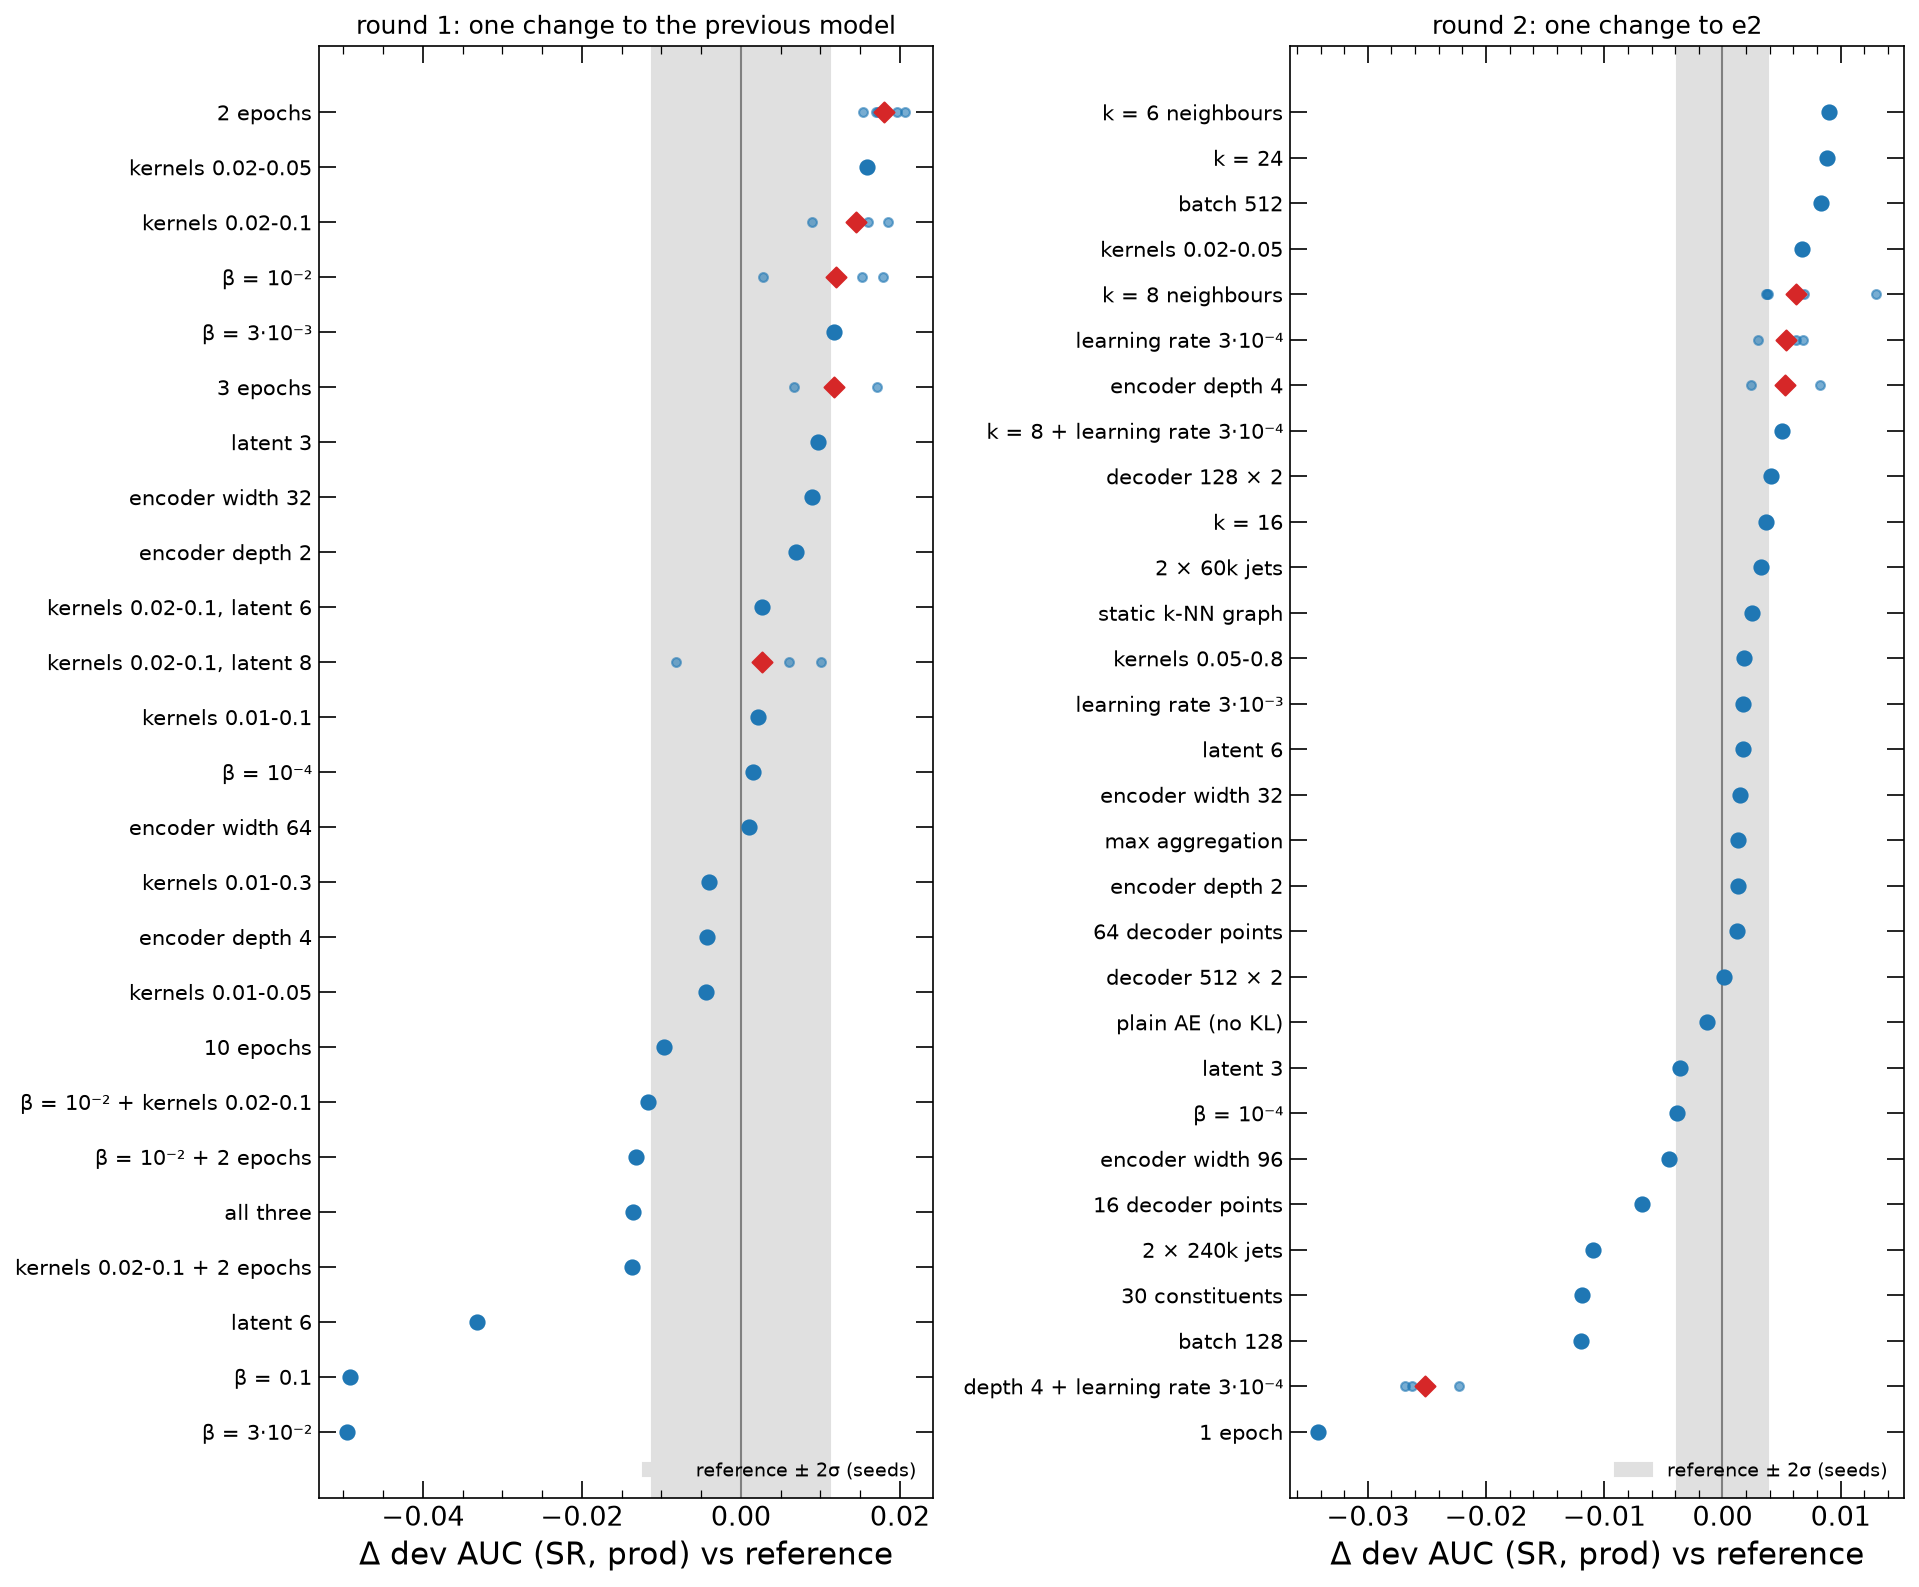
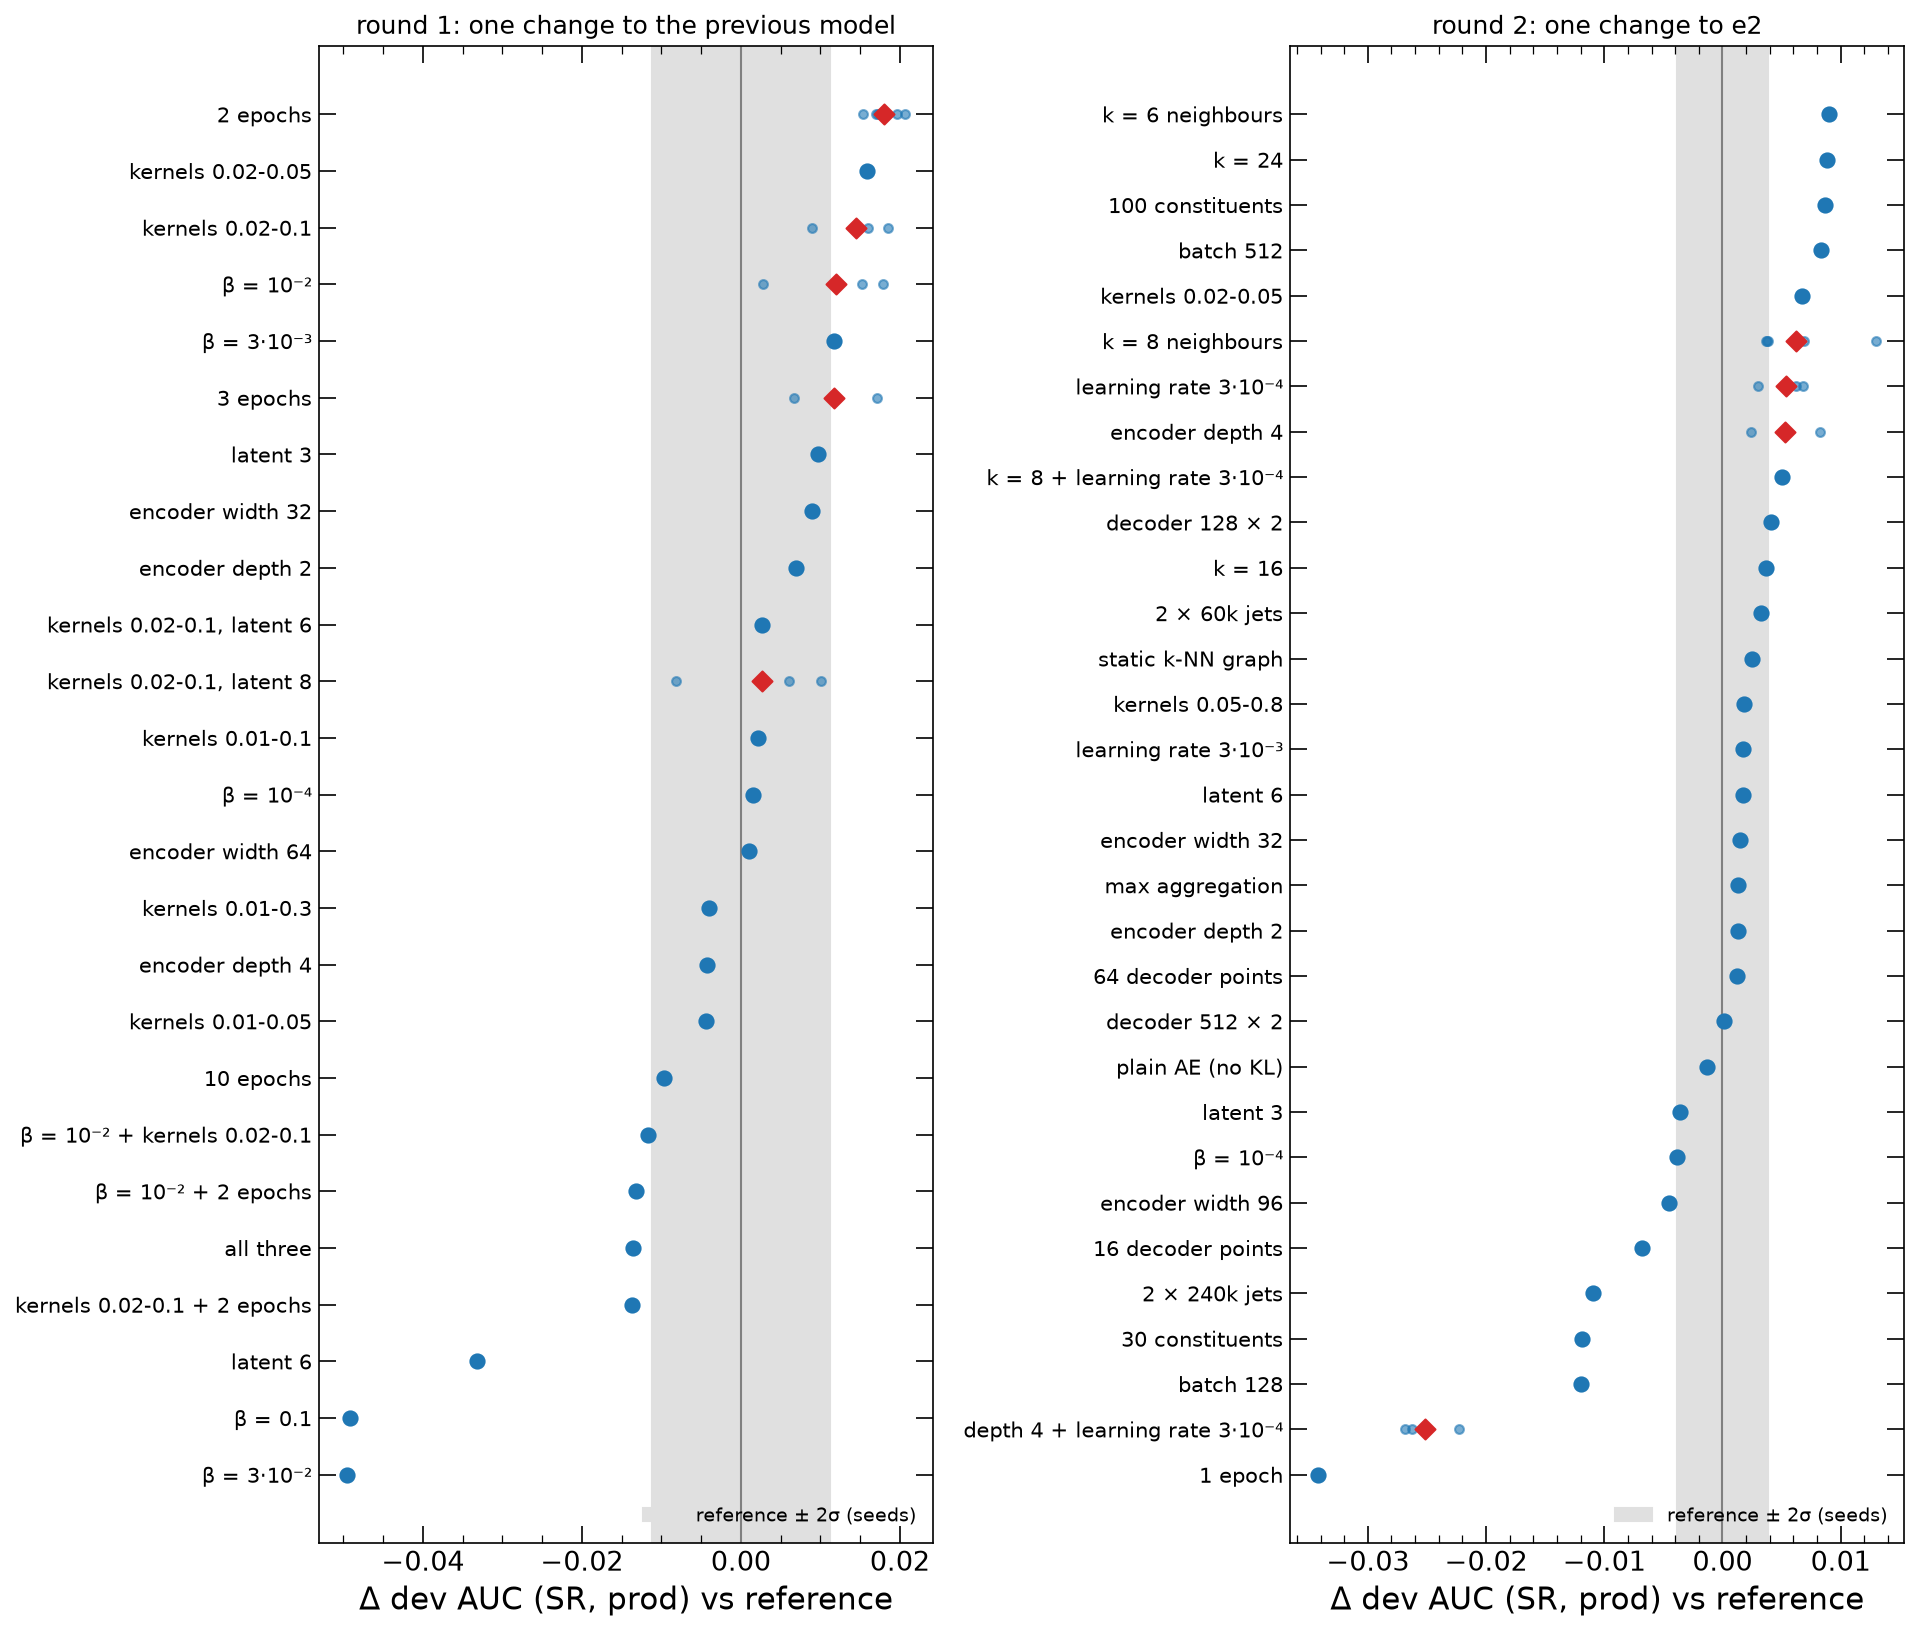
Sweep: 100 constituents around e2 (0.855, single seed); RESULTS.md round 2 and limitations
Claude-Session: https://claude.ai/code/session_01N1J7uoePiv8deXrt4FjrmS

diff --git a/RESULTS.md b/RESULTS.md
@@ -274,8 +274,10 @@ steps and over-fit; a deeper encoder with a lower learning rate under-fits in 2 
 
 **Round 2: one change to the 2-epoch model** (31 variants, reference 0.847 ± 0.002, 5 seeds): all within
 −0.007 … +0.009 except the changes that move the fit level — 1 epoch 0.813, 2 × 240k jets 0.836, batch 128
-0.835, encoder depth 4 with learning rate 3·10⁻⁴ 0.822 ± 0.002.  The graph (k = 6 … 24 neighbours, static
-instead of dynamic k-NN, max instead of mean aggregation), the encoder size (width 32–96, depth 2–4), the
+0.835, encoder depth 4 with learning rate 3·10⁻⁴ 0.822 ± 0.002 — and 30 instead of 50 constituents per jet
+(0.835; 100 constituents: 0.855, single seed, at four times the training time).  The graph (k = 6 … 24
+neighbours, static instead of dynamic k-NN, max instead of mean aggregation), the encoder size (width 32–96,
+depth 2–4), the
 latent size (3–6), β (10⁻⁴–10⁻³), VAE vs plain AE, the decoder (128–512 wide, 16–64 points) and the kernel
 set (0.02–0.05 … 0.05–0.8) do not matter at this level.  **Round 3**: the best round-2 variants with seeds —
 k = 8 neighbours 0.853 ± 0.004 (5 seeds), encoder depth 4 0.852 ± 0.002, learning rate 3·10⁻⁴
@@ -452,8 +454,8 @@ would be the tool for that.
    sculpts m_jj slightly more.  Tuning an anomaly detector's training length on one signal model tunes it
    toward that signal.
 
-**Limitations.**  CPU-only training (2 cores): small models (48-wide EdgeConv, top-50 constituents), short
-budgets and three to five seeds; the GPU notebook (prepared, not yet run) continues the hyper-parameter study
+**Limitations.**  CPU-only training (2 cores): small models (48-wide EdgeConv, top-50 constituents — 96-wide
+encoders did not help, 100 constituents only possibly, §6), short budgets and three to five seeds; the GPU notebook (prepared, not yet run) continues the hyper-parameter study
 on a 72-point grid with scale variants.  Design choices — the whole hyper-parameter study included — were
 tuned on the 2-prong signal validation split, and earlier test results (including 3-prong) were seen during
 development.  The initial weights of the CPU study's runs were drawn from the process's random state (not

diff --git a/results/dev/hp_study.md b/results/dev/hp_study.md
@@ -85,6 +85,7 @@ Reference of round 1 (previous final model, 3 seeds): 0.829 ± 0.006 (3); refere
 | kernels 0.02-0.05 | 0.854 | +0.007 | 1.72 | +0.66 |
 | kernels 0.05-0.8 | 0.849 | +0.002 | 1.71 | +0.81 |
 | 30 constituents | 0.835 | -0.012 | 1.60 | +0.73 |
+| 100 constituents | 0.855 | +0.009 | 1.76 | +0.70 |
 
 ### Seed ensembles and score kinds
 
